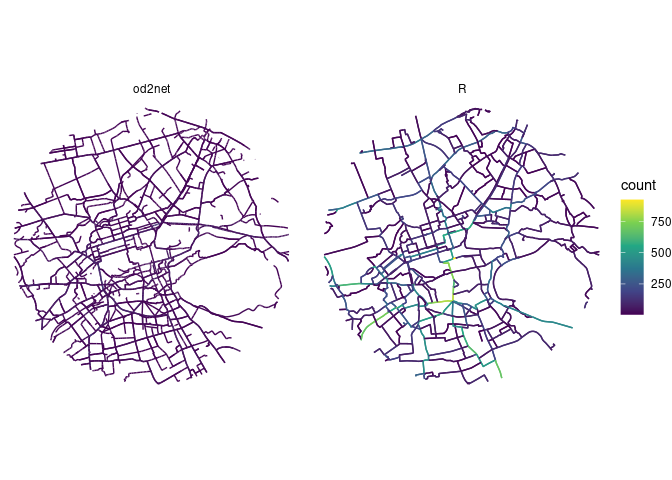
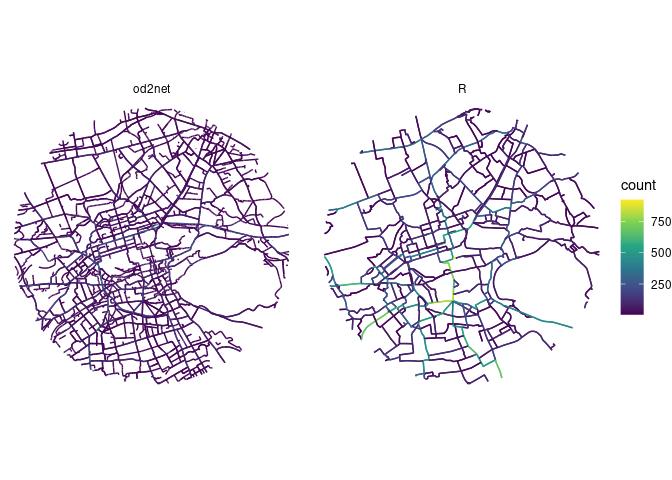
Update comparison

diff --git a/README.md b/README.md
@@ -115,7 +115,7 @@ sum(output_od2net$count * sf::st_length(output_od2net), na.rm = TRUE) |>
   units::set_units("km")
 ```
 
-    11740.47 [km]
+    34685.34 [km]
 
 ``` r
 sum(output_r$count * sf::st_length(output_r), na.rm = TRUE) |>
